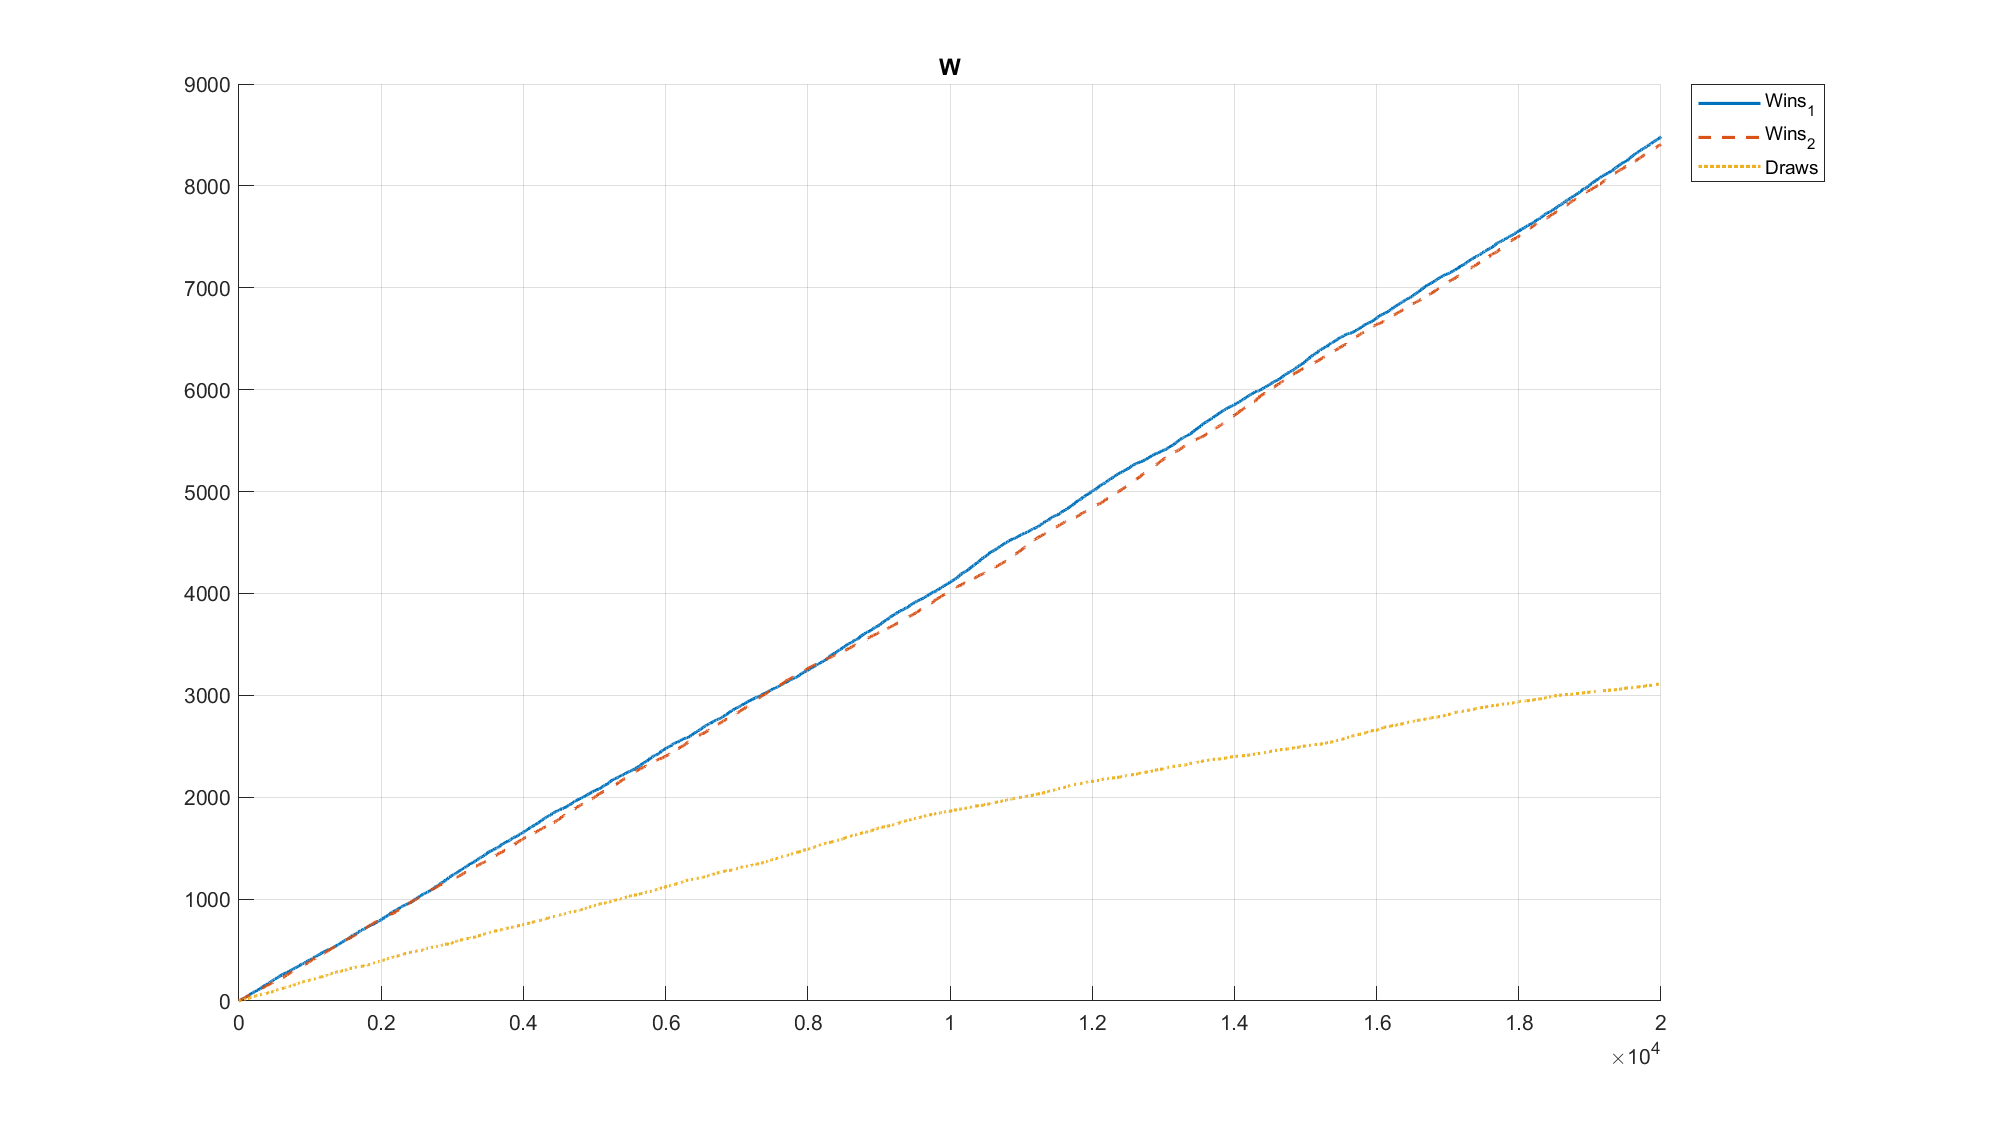
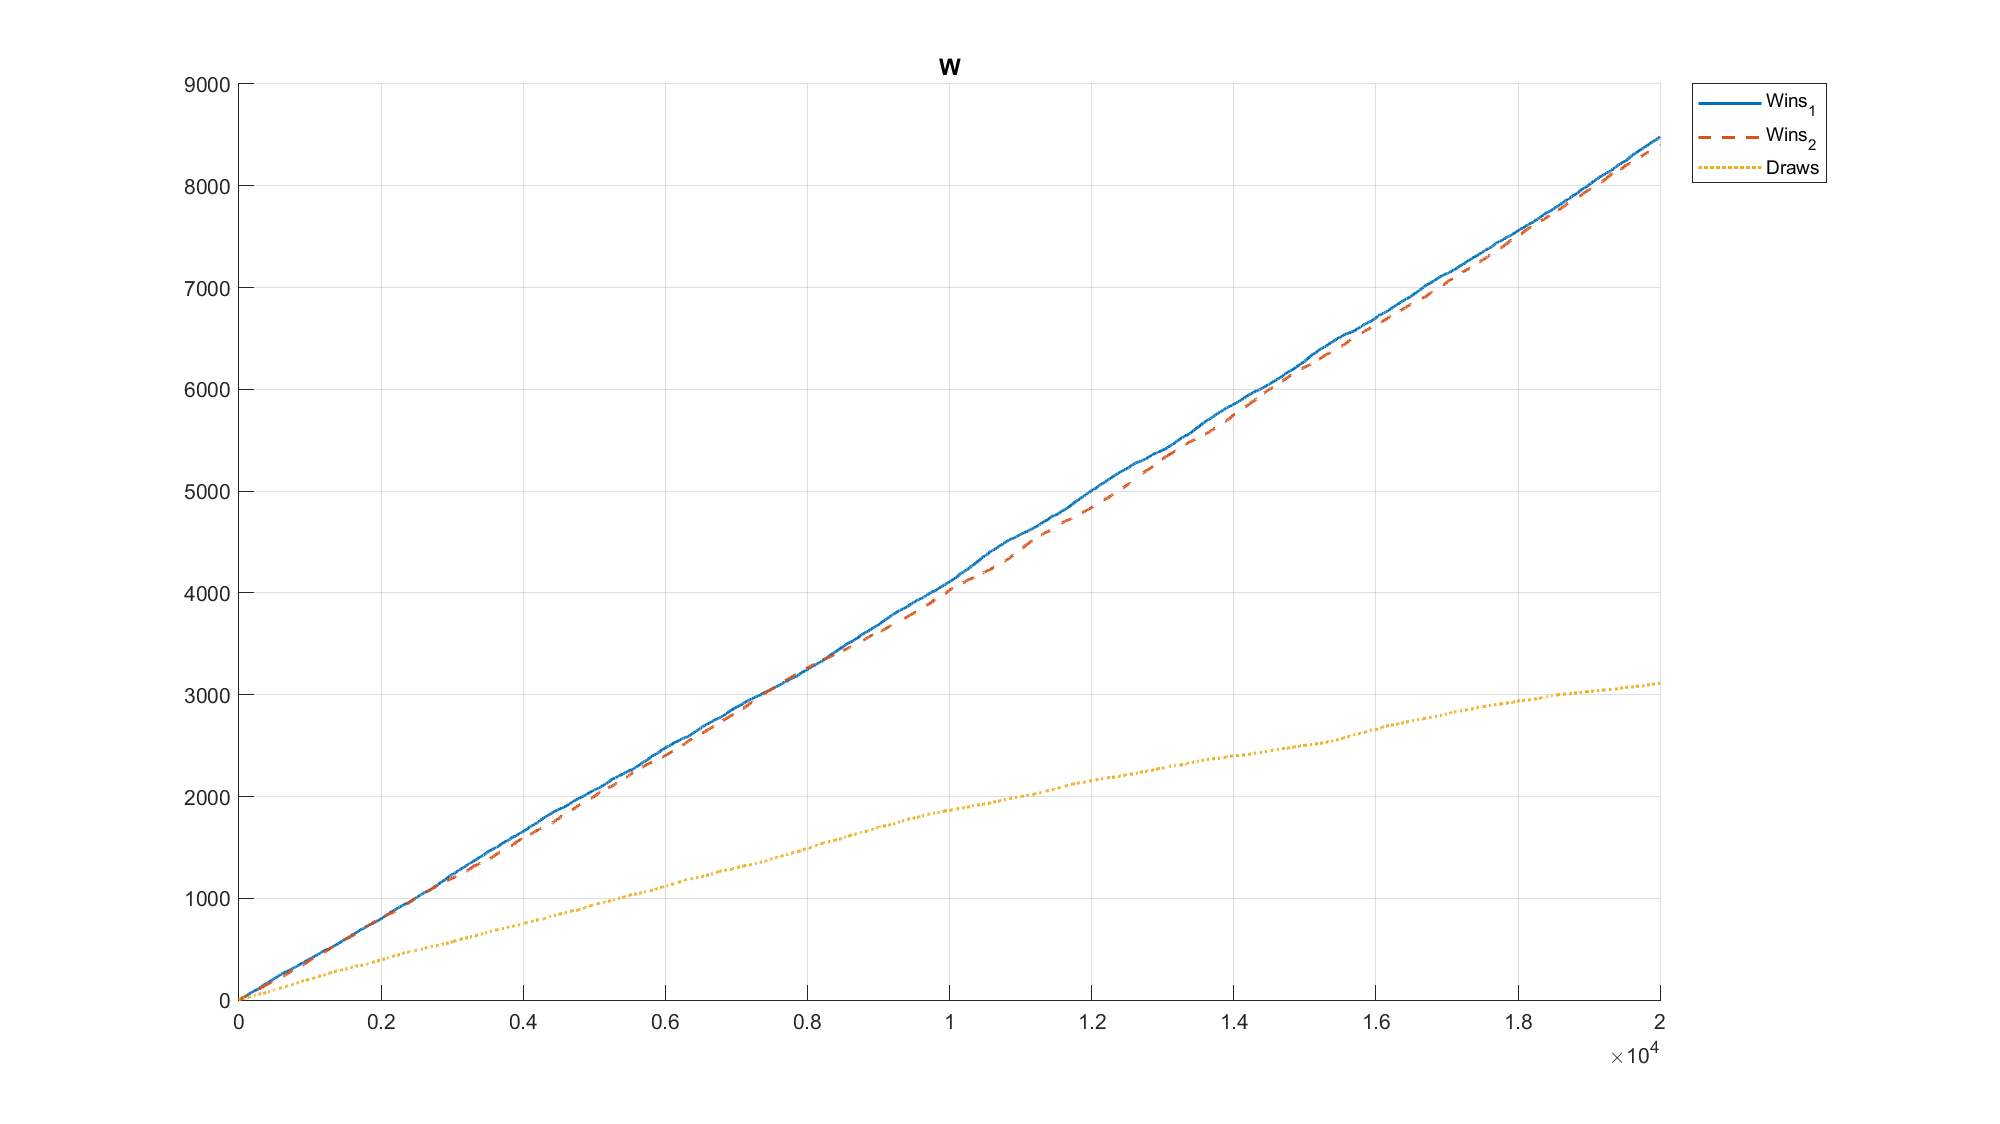
#16, #17: finished implementing, still to check correctness

diff --git a/rel1/agents_fights/e_greedy_vs_UCB.m b/rel1/agents_fights/e_greedy_vs_UCB.m
@@ -19,14 +19,13 @@ N1 = zeros(A, 1); % number of times we take each action
 historyQ1 = zeros(A, lengthEpisode); % save history of Q
 historyN1 = zeros(A, lengthEpisode); % save history of N
 
-%----------Initialization for the preference update agent----------
-alpha2 = 4e-5; % update step for preferences
-beta2 = 1e-2; % update step for rewards
-H2 = zeros(A, 1); % preferences of actions
-N2 = zeros(A, 1); % number of times we take each action
-avg_r2 = 0; % initialization of average reward 
-historyH2 = zeros(A, lengthEpisode); % save history of H
-historyN2 = zeros(A, lengthEpisode); % save history of N
+%--------------Initialization for the e-greedy agent--------------
+epsilon2 = 0.05;
+alpha2 = 1e-2; % step size
+Q2 = zeros(A, 1); % estimate of the value of actions for agent 1
+N2 = zeros(A, 1); % number of times we take each action for agent 1
+historyQ2 = zeros(A, lengthEpisode);
+historyN2 = zeros(A, lengthEpisode); 
 
 for i = 1:lengthEpisode
     
@@ -36,10 +35,12 @@ for i = 1:lengthEpisode
     agent_int1 = find(Qext1 == max(Qext1)); 
     agent_int1 = agent_int1(randi(length(agent_int1))); % parity broken by random
     
-    %----------------Preference update agent work------------------  
-    Proba2 = exp(H2)/sum(exp(H2)); % Compute softmax for each action
-    csProba2 = cumsum(Proba2); %choose action based on softmax
-    agent_int2 = find(rand < csProba2, 1, "first");
+    %---------------------e-greedy agent work----------------------  
+    if rand < epsilon2
+        agent_int2 = randi(A); % we take a random action
+    else
+        agent_int2 = find(Q2 == max(Q2), 1, 'first'); % we take the greedy action
+    end
 
     [r1, r2] = bandit_fight(agent_int1, agent_int2); % compute reward
 
@@ -49,22 +50,17 @@ for i = 1:lengthEpisode
 
    
     %---------Update preferences for the preference update agent---------
-    H2(agent_int2) = H2(agent_int2) + alpha2*(r2 - avg_r2)*(1-Proba2(agent_int2)); 
     N2(agent_int2) = N2(agent_int2) + 1;
-    % update not-taken actions preferences
-    notagent_int2 = 1:A;
-    notagent_int2(agent_int2) = [];
-    H2(notagent_int2) = H2(notagent_int2) - alpha2*(r2 - avg_r2)*Proba2(notagent_int2);
-    avg_r2 = avg_r2 + beta2*(r2-avg_r2); % update average reward with fixed step
+    Q2(agent_int2) = Q2(agent_int2) + alpha2*(r2 - Q2(agent_int2));
 
     %----------------save the history for the UCB agent-----------------
     historyQ1(:, i) = Q1;
     historyN1(:, i) = N1;
 
     %---------save the history for the preference update agent----------
-    historyH2(:,i) = H2;
+    historyQ2(:,i) = Q2;
     historyN2(:,i) = N2;
-    
+
     % ---------Update match result history---------------------
     if r1 == 1
         W = W + [1, 0, 0];
@@ -97,7 +93,7 @@ grid on
 lgn.Location = 'northeastoutside';
 hold off
 % Save graph
-saveas(gcf, "graphs/UCB_vs_pref/N", "png")
+saveas(gcf, "graphs/e_vs_UCB/N", "png")
 %--------------------------------------------------------------------------
 
 %-----------------plot the history of Q------------------------------------
@@ -105,37 +101,24 @@ saveas(gcf, "graphs/UCB_vs_pref/N", "png")
 figure('Position', [700 50 700 420])
 hold on
 % Graph content
-title('Q1')
+title('Q')
 plot(historyQ1', 'LineWidth', 1.5)
-lgn = legend('Rock_1', 'Paper_1', 'Scissors_1', 'Spock_1', 'Lizard_1');
+plot(historyQ2', 'LineWidth', 1.5, 'LineStyle','--')
+lgn = legend( ...
+    'Rock_1', 'Paper_1', 'Scissors_1', 'Spock_1', 'Lizard_1', ...
+    'Rock_2', 'Paper_2', 'Scissors_2', 'Spock_2', 'Lizard_2');
 set(gca, 'ColorOrder', colors(5))
 % Fixed
 grid on
 lgn.Location = 'northeastoutside';
 hold off
 % Save graph
-saveas(gcf, "graphs/UCB_vs_pref/Q", "png")
+saveas(gcf, "graphs/e_vs_UCB/Q", "png")
 %--------------------------------------------------------------------------
-
-%-----------------------plot the history of H1-----------------------------
-% Fixed
-f=figure('Position', [0 550 700 420])
-hold on
-% Graph content
-title('H2')
-plot(historyH2', 'LineWidth', 1.5)
-lgn = legend('Rock_1', 'Paper_1', 'Scissors_1', 'Spock_1', 'Lizard_1');
-set(gca, 'ColorOrder', colors(5))
-% Fixed
-grid on
-lgn.Location = 'northeastoutside';
-hold off
-% Save graph
-saveas(gcf, "graphs/UCB_vs_pref/H", "png")
 
 %-----------------plot the history of W------------------------------------
 % Fixed
-figure('Position', [700 550 700 420])
+figure('Position', [0 550 700 420])
 hold on
 % Graph content
 title('W')
@@ -149,5 +132,5 @@ grid on
 lgn.Location = 'northeastoutside';
 hold off
 % Save
-saveas(gcf, "graphs/UCB_vs_pref/W", "png")
+saveas(gcf, "graphs/e_vs_UCB/W", "png")
 %--------------------------------------------------------------------------
